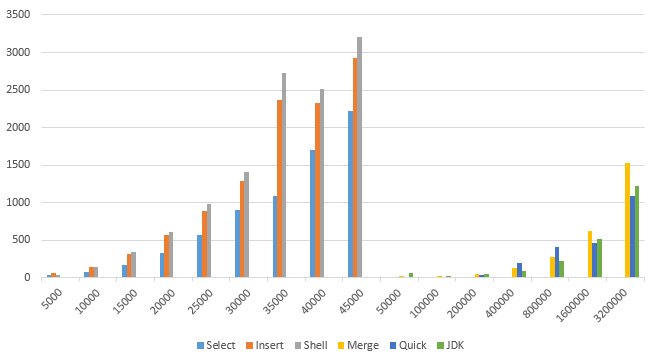
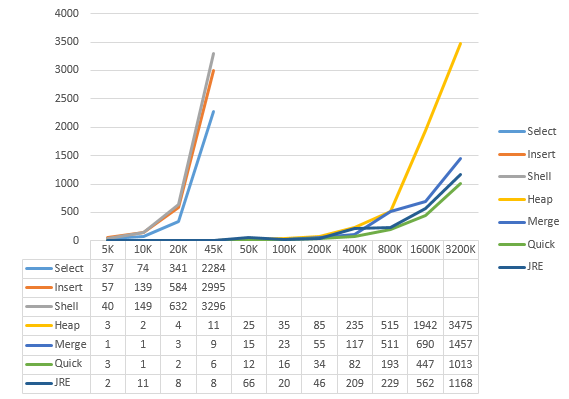
What: Add Heap Sort
Why:

How:

diff --git a/source/_posts/sorting.md b/source/_posts/sorting.md
@@ -24,7 +24,7 @@ Implementation note: This implementation is a stable, adaptive, iterative merges
 I have checked another sort method's description:
 >Implementation note: The sorting algorithm is a Dual-Pivot Quicksort by Vladimir Yaroslavskiy, Jon Bentley, and Joshua Bloch. This algorithm offers O(n log(n)) performance on many data sets that cause other quicksorts to degrade to quadratic performance, and is typically faster than traditional (one-pivot) Quicksort implementations.
 
-So I'm curious to know how good the built-in sort is and whether my home-made sort can defeat it. It sounds like playing with AlphaGo, but I still decide to have a go. For the completeness, I include elementary sorting methods (e.g. select sort, insert sort and shell sort, which have the performance of {% asset_img "o_n_2.png" "o_n_2" %}), as well as more advanced sort (e.g. merge sort and quick sort with the performance of {% asset_img "o_n_lgn.png" "o_n_lgn" %}). Here is the detailed source code.
+So I'm curious to know how good the built-in sort is and whether my home-made sort can defeat it. It sounds like playing with AlphaGo, but I still decide to have a go. For the completeness, I include elementary sorting methods:select sort, insert sort and shell sort, which have the performance of {% asset_img "o_n_2.png" "" %}, as well as more advanced sort:heap sort, merge sort and quick sort with the performance of {% asset_img "o_n_lgn.png" "" %}. Here is the detailed source code.
 
 <!--more-->
 
@@ -86,7 +86,124 @@ So I'm curious to know how good the built-in sort is and whether my home-made so
   }
 ```
 
-# Merge Sort
+# Heap sort
+Heap sort relies on Priority Queue, which itself is not a straightforward and therefore increase the overheads of resource consumption during sorting. It makes it the least competitive among all advanced sorting methods.
+
+```
+public class PriorityQueue {
+
+  private Comparator comparator;
+  private Comparable[] items;
+  private int lastIndex = 0;
+
+  public PriorityQueue(Comparator comparator, int size) {
+    this.comparator = comparator;
+    items = new Comparable[size+1];
+  }
+
+  public boolean isEmpty() {
+    return lastIndex == 0;
+  }
+
+  public void addAll(Comparable[] a) {
+    for (Comparable i: a) {
+      add(i);
+    }
+  }
+
+  public void add(Comparable item) {
+    if (lastIndex == items.length-1) {
+      throw new RuntimeException("Not support to enlarge queue capacity yet");
+    }
+
+    items[++lastIndex] = item;
+    swim(lastIndex);
+  }
+
+  private void swim(int i) {
+    int parentIndex = parent(i);
+    if (parentIndex == 0) return;
+    if (isBetter(items[i], items[parentIndex])) {
+      exchange(items, i, parentIndex);
+      swim(parentIndex);
+    }
+  }
+
+  public Optional<Comparable> top() {
+    if (isEmpty()) {
+      return Optional.empty();
+    }
+    return Optional.of(items[1]);
+  }
+
+  public Optional<Comparable> pop() {
+    Optional<Comparable> top = top();
+    if (!top.isPresent()) {
+      return top;
+    }
+
+    exchange(items, 1, lastIndex);
+    items[lastIndex--] = null;
+    // TODO shrink items' capacity
+
+    sink(1);
+    return top;
+  }
+
+  private void sink(int i) {
+    int left = left(i), right = right(i);
+
+    if (left > lastIndex) {
+      return;
+    }
+
+    int exch = left;
+    if (left < lastIndex && isBetter(items[left+1], items[left])) {
+      exch = left + 1;
+    }
+
+    if (isBetter(items[exch], items[i])) {
+      exchange(items, i, exch);
+      sink(exch);
+    }
+
+  }
+
+  private boolean isBetter(Comparable c1, Comparable c2) {
+    return comparator.compare(c1, c2) > 0;
+  }
+
+  private int left(int index) {
+    return index * 2;
+  }
+
+  private int right(int index) {
+    return left(index) + 1;
+  }
+
+  private int parent(int index) {
+    return index / 2;
+  }
+}
+``` 
+
+With the availability of Priority Queue, heap sort is straightforward enough:
+```
+  public static Comparable[] heapSort(Comparable[] a) {
+    PriorityQueue pq = new PriorityQueue(MIN, a.length);
+    pq.addAll(a);
+
+    Comparable[] result = new Comparable[a.length];
+    int i = 0;
+    while (!pq.isEmpty()) {
+      result[i++] = pq.pop().get();
+    }
+
+    return result;
+  }
+```
+
+# Merge sort
 ```
   Comparable[] mergeSort(Comparable[] t) {
     doMergeSort(t, 0, t.length-1, new Comparable[t.length]);
@@ -128,7 +245,7 @@ So I'm curious to know how good the built-in sort is and whether my home-made so
   }
 ```
 
-# Quick Sort
+# Quick sort
 ```
   Comparable[] quickSort(Comparable[] t) {
     doQuickSort(t, 0, t.length-1);
@@ -190,6 +307,6 @@ From the chart we can see that all elementary sort methods start to struggle wit
 
 Admittedly, modern compiler and CPU are competitive enough for even elementary sort methods to handle array within 10K. In terms of code complexity and footprint, both Select Sort and Insert Sort have a straightforward code structure and easy to read, so they can be good candidates for non-resource-critical use. Shell Sort, however, has a rather complicated code and has the most significant performance issue and therefore should not be used unless in the special circumstance that most adjacent elements have a far distance.
 
-On the other hand, for large-scale applications, a decent sort method like Merge Sort or Quick Sort is the only choice when the sorting array consists of more than millions of data. Among these methods, Merge Sort falls behind when the data is over one million and Quick Sort manages to finish the sorting of one million within half a second.
+On the other hand, for large-scale applications, a decent sort method like Merge Sort or Quick Sort is the only choice when the sorting array consists of more than millions of data. Among these methods, Heap Sort has the least performance, Merge Sort falls behind when the data is over one million and Quick Sort manages to finish the sorting of one million within half a second.
 
 Another interesting finding is although the benchmark of JRE's built-in sort is stable for different inputs, it is beaten by my home-made Quick Sort when the size of incoming array is over one million. I did the same test several times and each time had the same conclusion.
